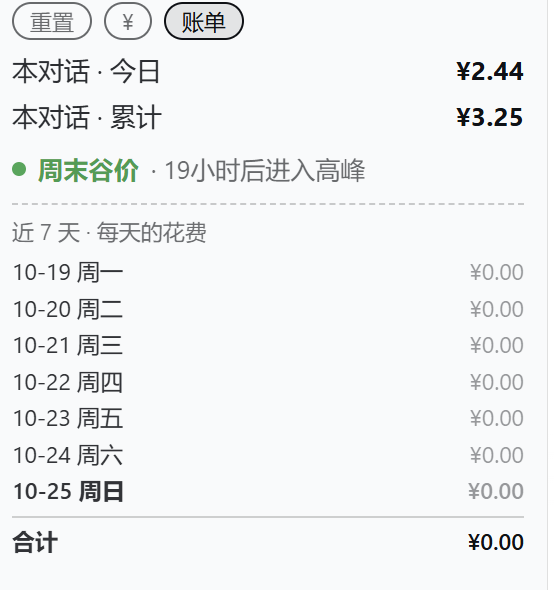
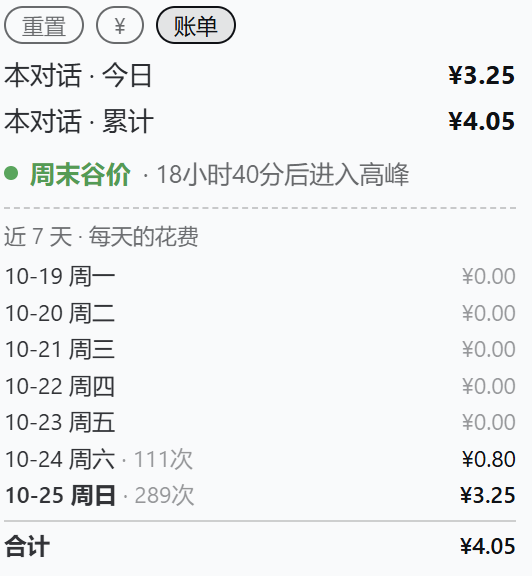
docs: refresh the bill screenshot now that the numbers reconcile

Changed region(s): [[0.0, 0.0, 0.9925, 0.9688], [0.812, 0.0938, 0.9624, 0.25]]

diff --git a/README.md b/README.md
@@ -10,7 +10,7 @@
 
 展开「账单」可以看到最近 7 天每天的花费与合计：
 
-![账单面板：最近 7 天每天的花费、当天的星期，以及合计](https://raw.githubusercontent.com/Fireawa/dsh-convo-tally/main/docs/screenshot-bill.png)
+![账单面板：最近 7 天每天的花费、当天调用次数与合计](https://raw.githubusercontent.com/Fireawa/dsh-convo-tally/main/docs/screenshot-bill.png)
 
 [English](README.en.md) · [更新日志](CHANGELOG.md) · [许可](#许可)
 

diff --git a/README.en.md b/README.en.md
@@ -10,7 +10,7 @@
 
 Expanding **bill** shows the last 7 days with their own totals:
 
-![Bill panel: cost per day for the last 7 days, weekday labels, and the sum](https://raw.githubusercontent.com/Fireawa/dsh-convo-tally/main/docs/screenshot-bill.png)
+![Bill panel: per-day cost, call count and the sum for the last 7 days](https://raw.githubusercontent.com/Fireawa/dsh-convo-tally/main/docs/screenshot-bill.png)
 
 [中文](README.md) · [Changelog](CHANGELOG.md) · [License](#license)
 
